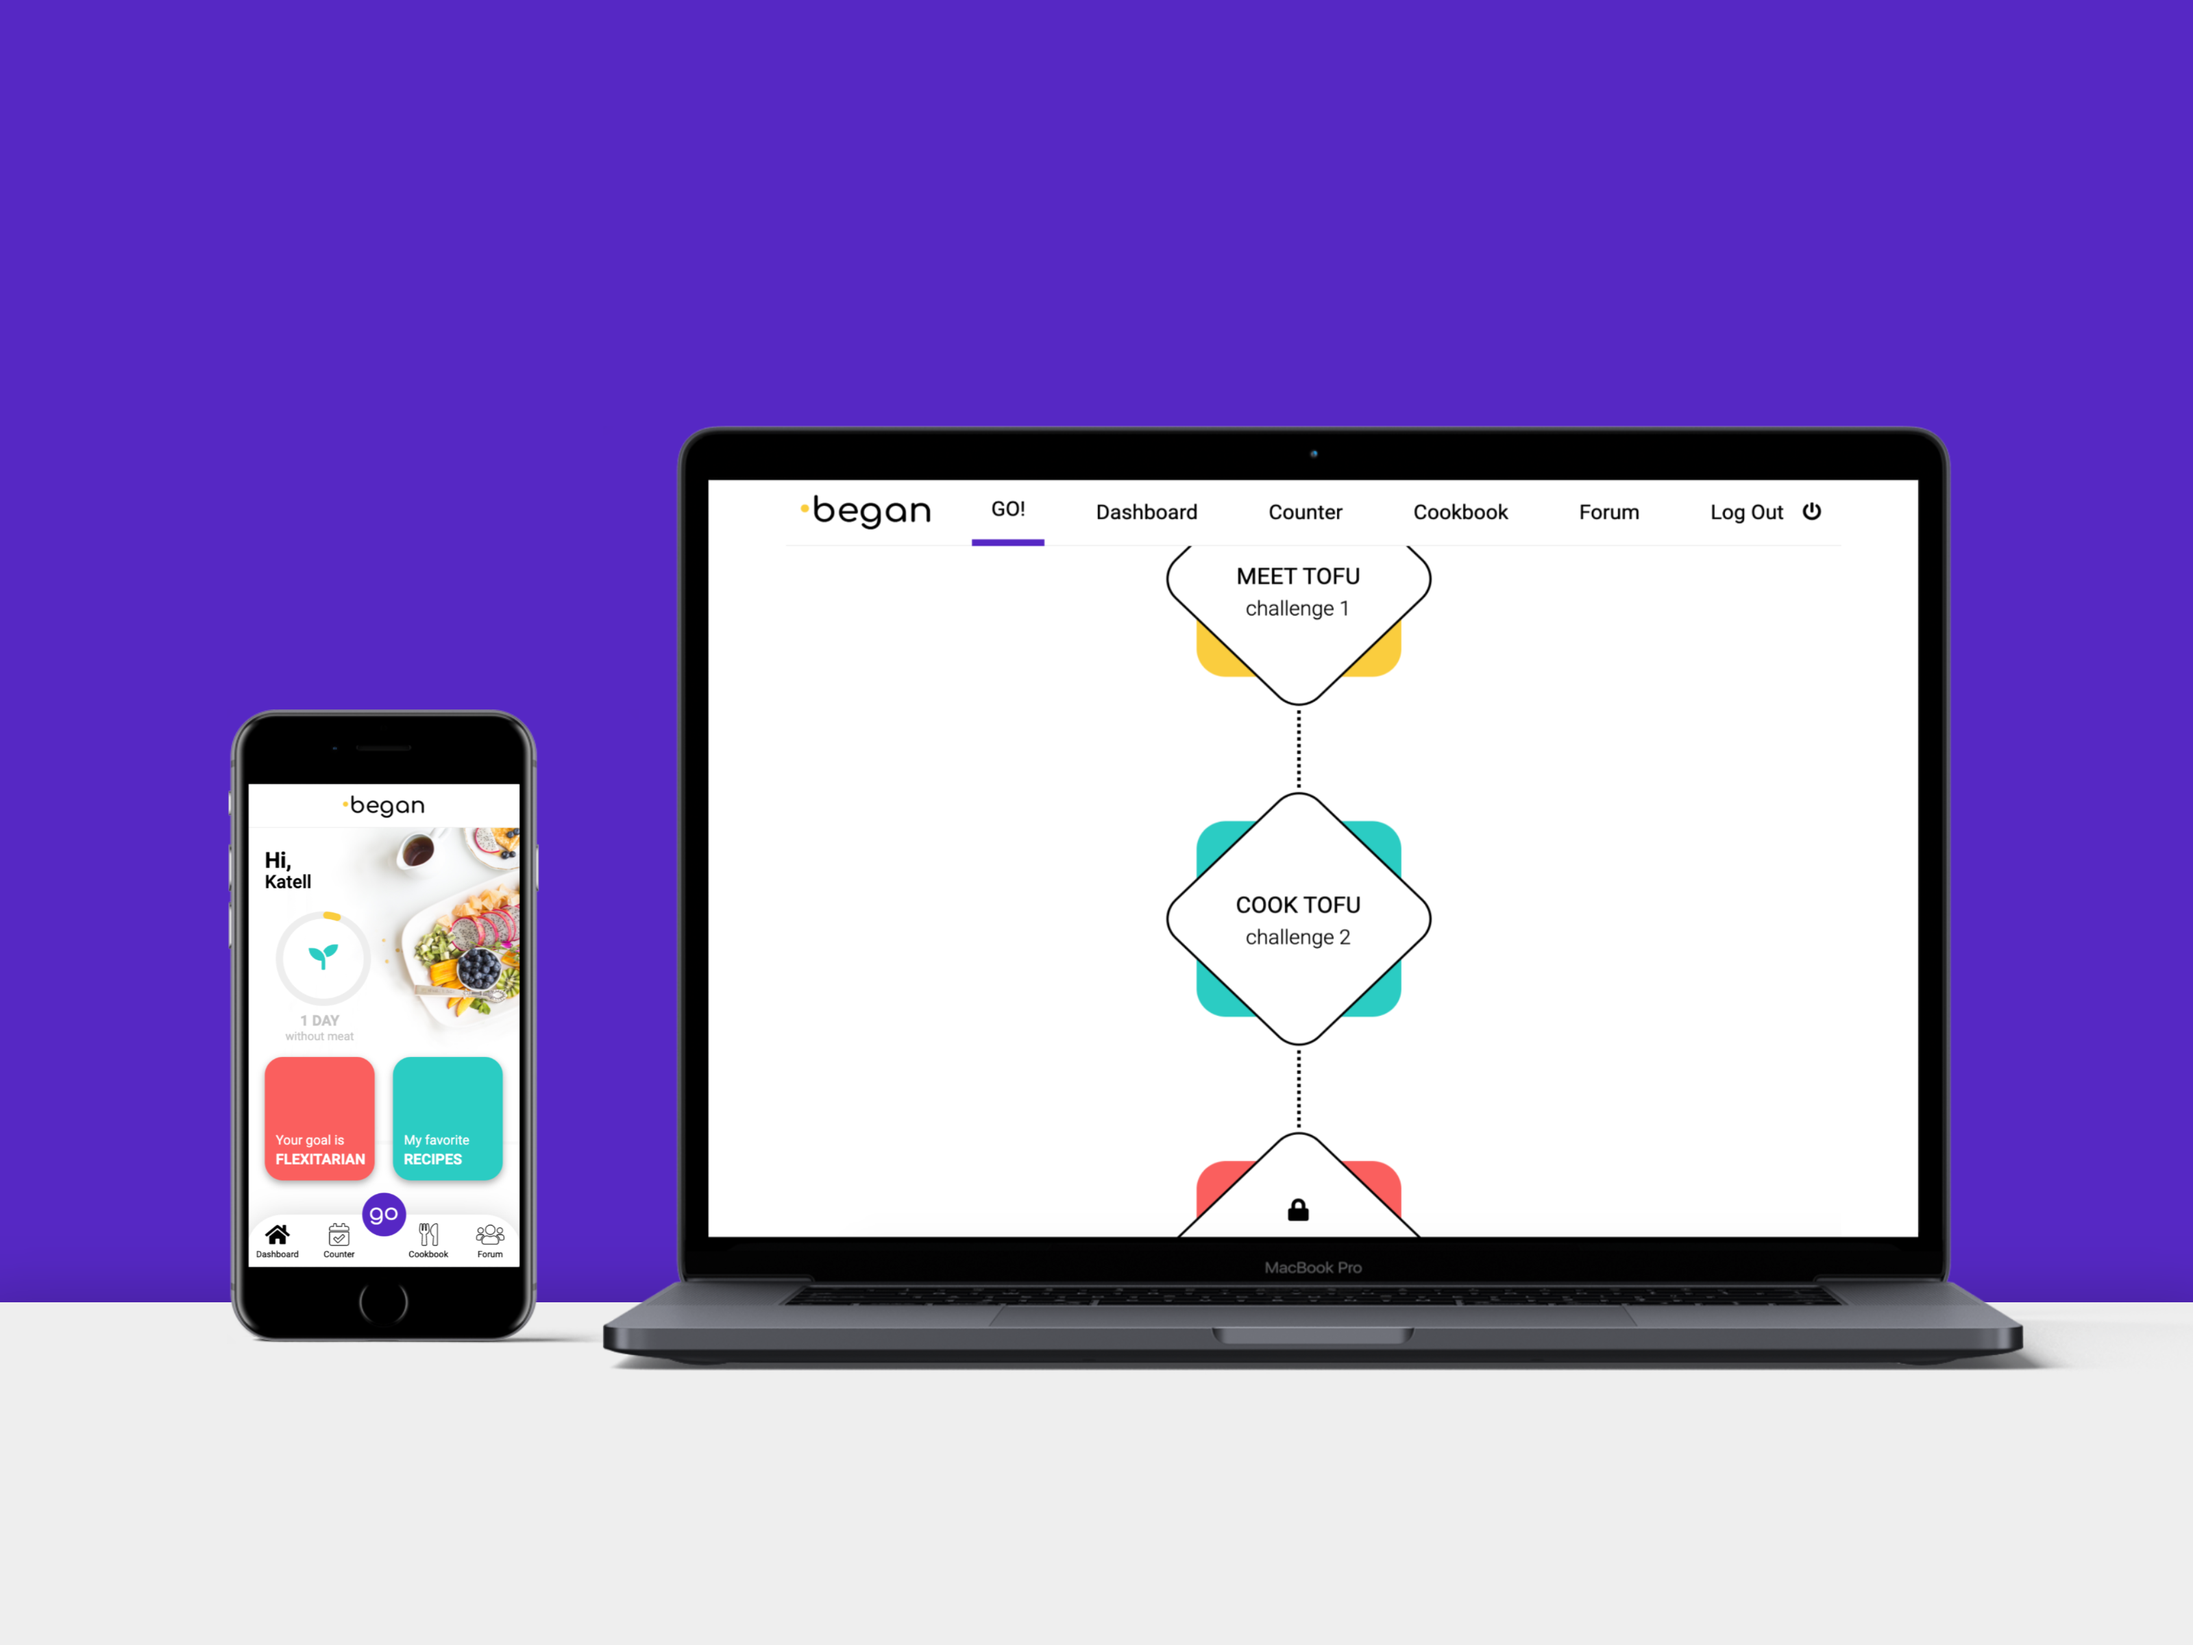
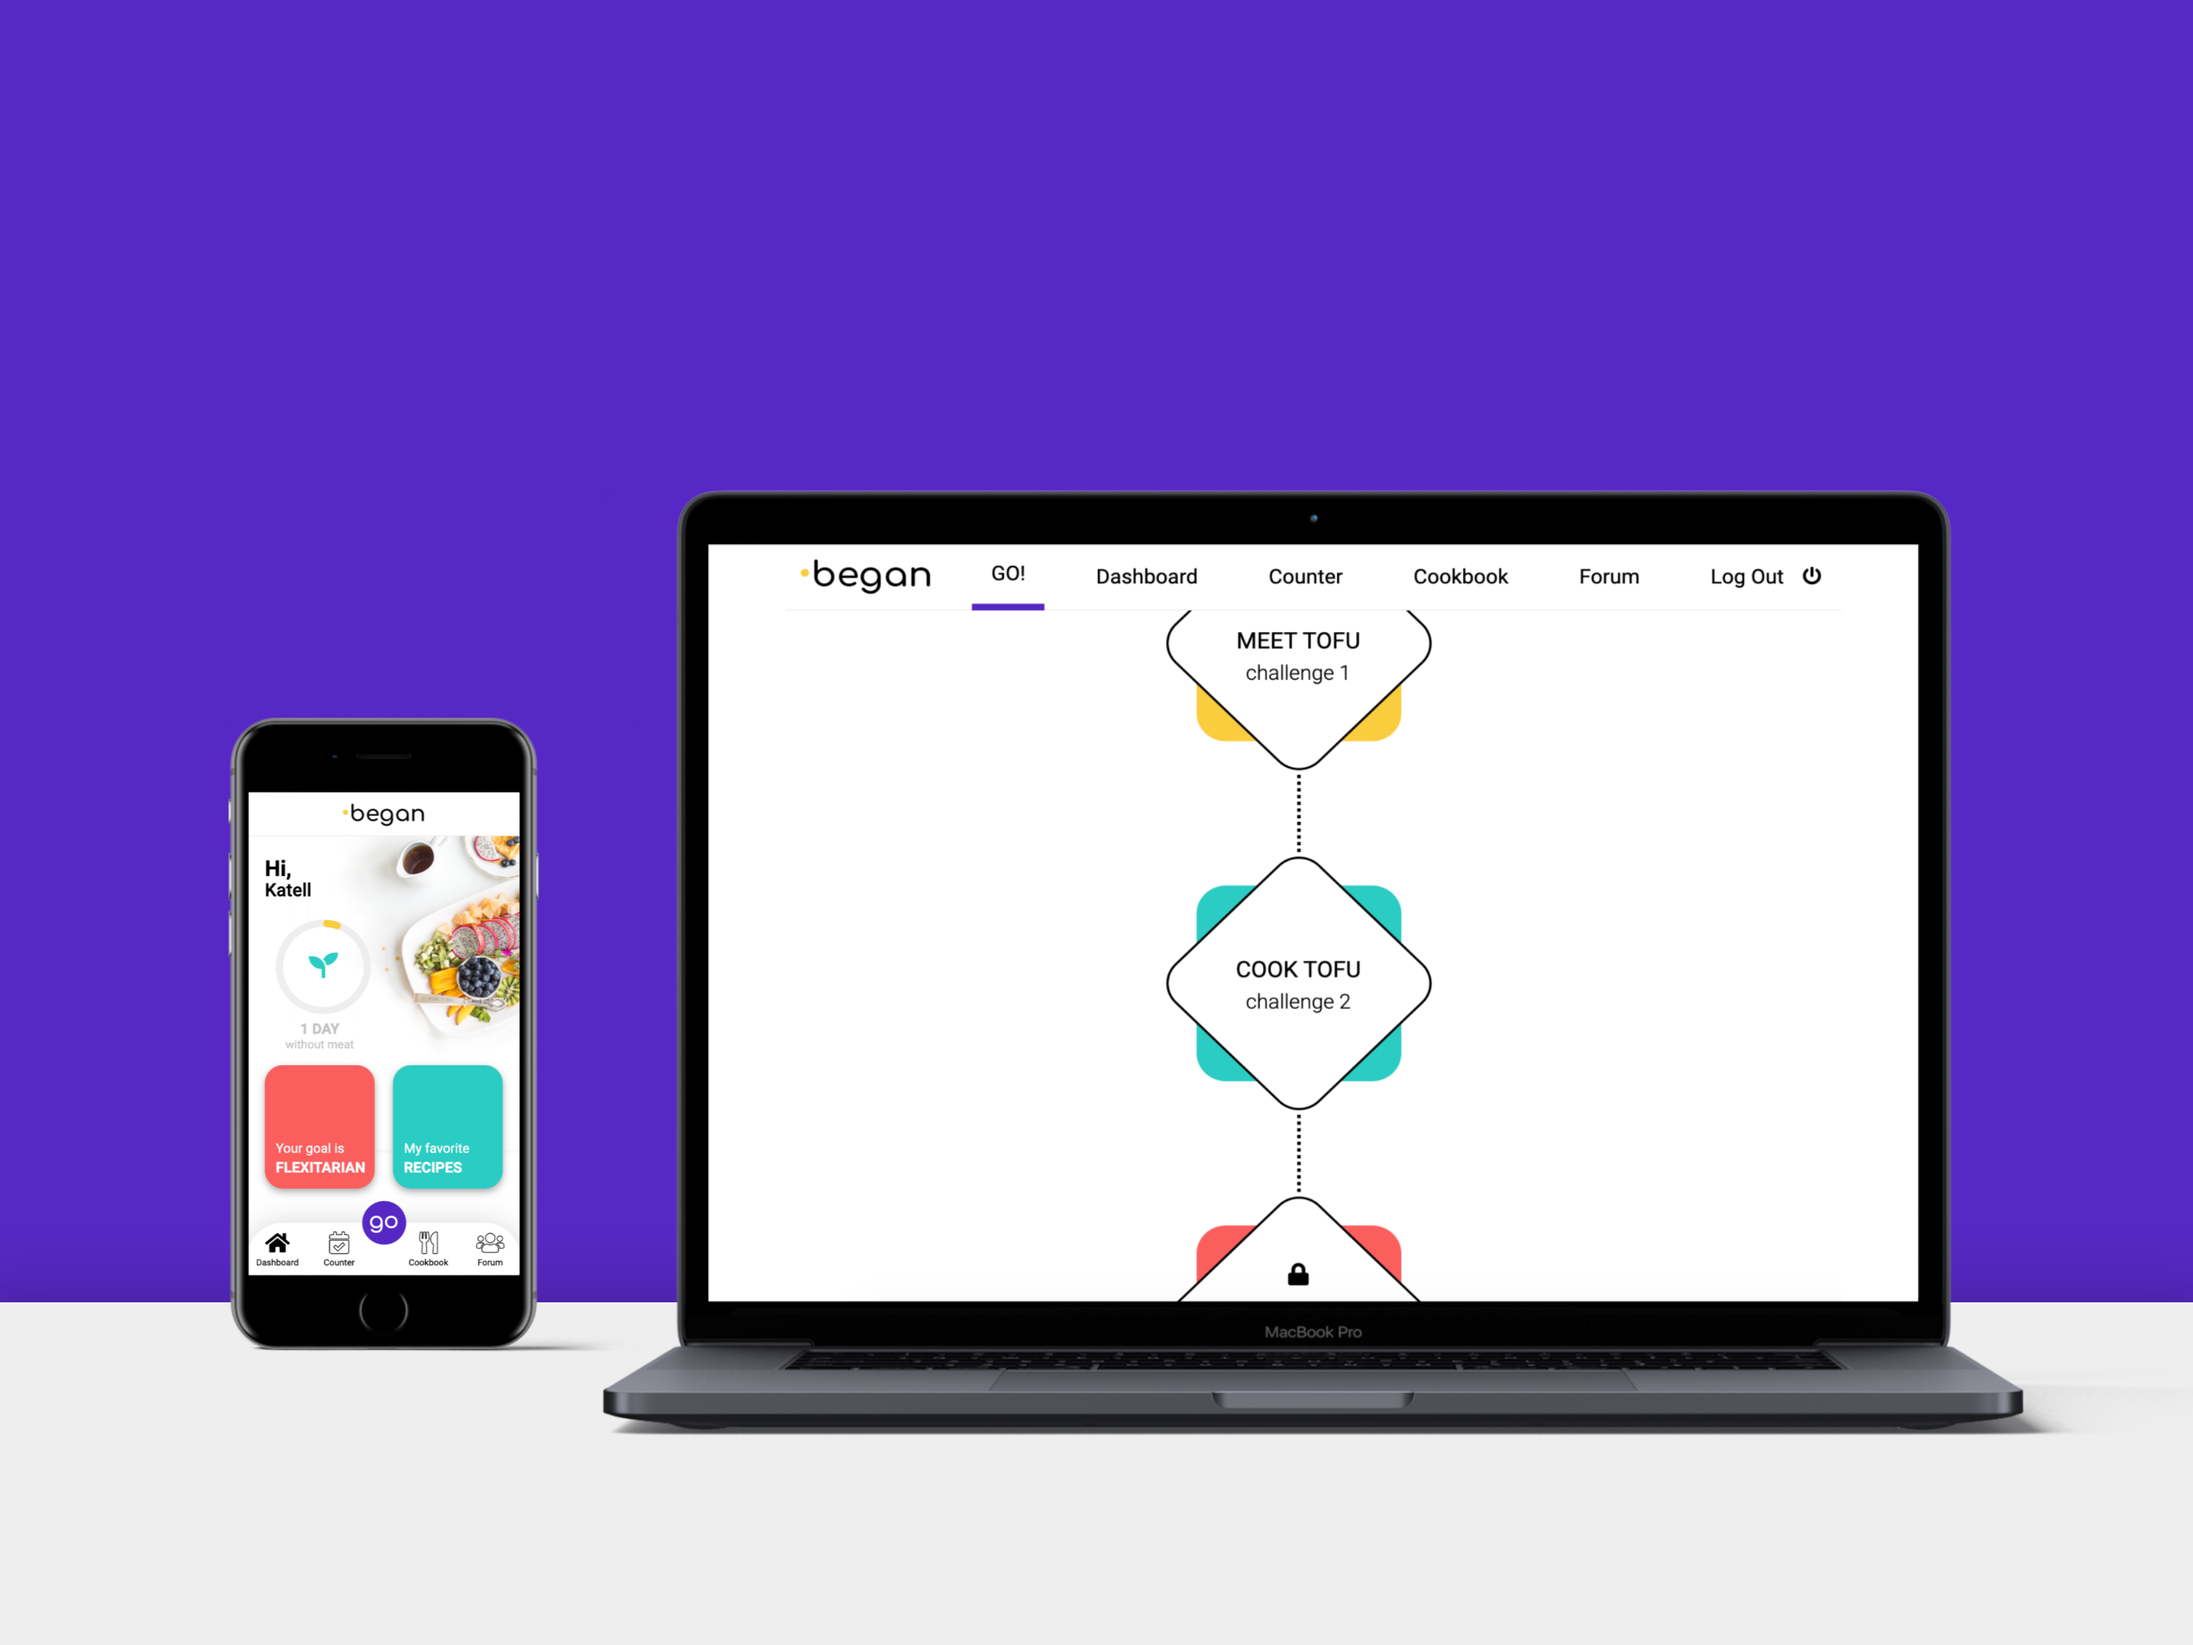
replaced picture of began project and added stack for each project

Changed region(s): [[0.0938, 0.25, 0.9375, 0.875], [0.0938, 0.4062, 0.25, 0.6562], [0.125, 0.5312, 0.1562, 0.5938]]

diff --git a/work.html b/work.html
@@ -72,11 +72,22 @@
         <div class="project-text">
           <h3>Say</h3>
           <p>
-            This quote bar was built with React and the Quote Garden API.<br>
-            Look for a quote, select a background color and a font.<br><br>
+            Look for your favorite quote, select a background color and a font.<br>
+            When you're ready, just hit the download button.<br><br>
 
-            When you're ready, just hit the download button.
+            This quote bar was built with the Quote Garden API.
           </p>
+
+          <div class="stack-list">
+            <div class="stack">
+              <img src="stack-svg/react.svg" alt="React logo">
+              <p class="tech-name">React</p>
+            </div>
+            <div class="stack">
+              <img src="stack-svg/css.svg" alt="React logo">
+              <p class="tech-name">CSS3</p>
+            </div>
+          </div>
 
           <div class="buttons">
             <button class="visit-site-button"><a href="https://alt-katell.github.io/quote-builder/" target="_blank">Visit Say</a></button>
@@ -89,12 +100,29 @@
         <div class="project-text">
           <h3>the burger builder</h3>
           <p>
-            This app was built with React.<br><br>
-
-            Choose your favorite ingredients, build and order your burger.<br><br>
+            Choose your favorite ingredients, create your account and order your burger.<br><br>
 
             Work in progress.
           </p>
+
+          <div class="stack-list">
+            <div class="stack">
+              <img src="stack-svg/react.svg" alt="React logo">
+              <p class="tech-name">React</p>
+            </div>
+            <div class="stack">
+              <img src="stack-svg/redux.svg" alt="React logo">
+              <p class="tech-name">Redux</p>
+            </div>
+            <div class="stack">
+              <img src="stack-svg/css.svg" alt="React logo">
+              <p class="tech-name">CSS3</p>
+            </div>
+            <div class="stack">
+              <img src="stack-svg/firebase.svg" alt="React logo">
+              <p class="tech-name">Firebase</p>
+            </div>
+          </div>
 
           <div class="buttons">
             <button class="visit-site-button"><a href="https://alt-katell.github.io/react-burger-builder/" target="_blank">Visit the Burger Builder</a></button>
@@ -111,12 +139,35 @@
         <div class="project-text">
           <h3>began</h3>
           <p>
-            began is a Ruby on Rails app to become vegan while going through challenges.<br>
-            It is a demo mobile app developed with 3 other students as our coding bootcamp final project.<br>
-            We imagined, modeled, coded and deployed this app in 10 days.<br><br>
+            began is an app to become vegan, going through challenges.<br>
+            It is a demo app developed with 3 other students as our coding bootcamp final project.<br>
+            We imagined, coded and deployed this app in 10 days.<br><br>
 
             I focused on the front-end part of this project.
           </p>
+
+          <div class="stack-list">
+            <div class="stack">
+              <img src="stack-svg/rails.svg" alt="React logo">
+              <p class="tech-name">Rails</p>
+            </div>
+            <div class="stack">
+              <img src="stack-svg/sass.svg" alt="React logo">
+              <p class="tech-name">Sass</p>
+            </div>
+            <div class="stack">
+              <img src="stack-svg/javascript.svg" alt="React logo">
+              <p class="tech-name">JS</p>
+            </div>
+            <div class="stack">
+              <img src="stack-svg/postgresql.svg" alt="React logo">
+              <p class="tech-name">PostgreSQL</p>
+            </div>
+            <div class="stack">
+              <img src="stack-svg/heroku.svg" alt="React logo">
+              <p class="tech-name">Heroku</p>
+            </div>
+          </div>
 
           <div class="buttons">
             <button class="visit-site-button"><a href="https://app-began.herokuapp.com/" target="_blank">Visit began</a></button>
@@ -129,11 +180,34 @@
         <div class="project-text">
           <h3>ct.studio</h3>
           <p>
-            ct.studio is a Ruby on Rails app where designers can sell patterns and companies can buy them to print on their products.<br>
-            This is for now a demo app developed during a coding bootcamp.<br><br>
+            ct.studio is an app where designers can sell patterns and companies can buy them to print on their products.<br>
+            This is a demo app developed during a coding bootcamp.<br><br>
 
             I focused on the back-end part of this project.
           </p>
+
+          <div class="stack-list">
+            <div class="stack">
+              <img src="stack-svg/rails.svg" alt="React logo">
+              <p class="tech-name">Rails</p>
+            </div>
+            <div class="stack">
+              <img src="stack-svg/sass.svg" alt="React logo">
+              <p class="tech-name">Sass</p>
+            </div>
+            <div class="stack">
+              <img src="stack-svg/javascript.svg" alt="React logo">
+              <p class="tech-name">JS</p>
+            </div>
+            <div class="stack">
+              <img src="stack-svg/postgresql.svg" alt="React logo">
+              <p class="tech-name">PostgreSQL</p>
+            </div>
+            <div class="stack">
+              <img src="stack-svg/heroku.svg" alt="React logo">
+              <p class="tech-name">Heroku</p>
+            </div>
+          </div>
 
           <div class="buttons">
             <button class="visit-site-button"><a href="https://ctstudio.herokuapp.com/" target="_blank">Visit ct.studio</a></button>

diff --git a/style.css b/style.css
@@ -203,6 +203,29 @@ h3 {
   font-size: 16px;
 }
 
+.stack-list {
+  display: flex;
+  margin: 24px 0 8px 0;
+}
+
+.stack {
+  margin-right: 24px;
+  display: flex;
+  flex-direction: column;
+  align-items: center;
+}
+
+.stack img {
+  height: 35px;
+  width: auto;
+  margin-bottom: 6px;
+}
+
+.stack p {
+  font-size: 14px;
+  color: var(--grey);
+}
+
 .visit-site-button,
 .see-code-button {
   padding: 8px 20px;
